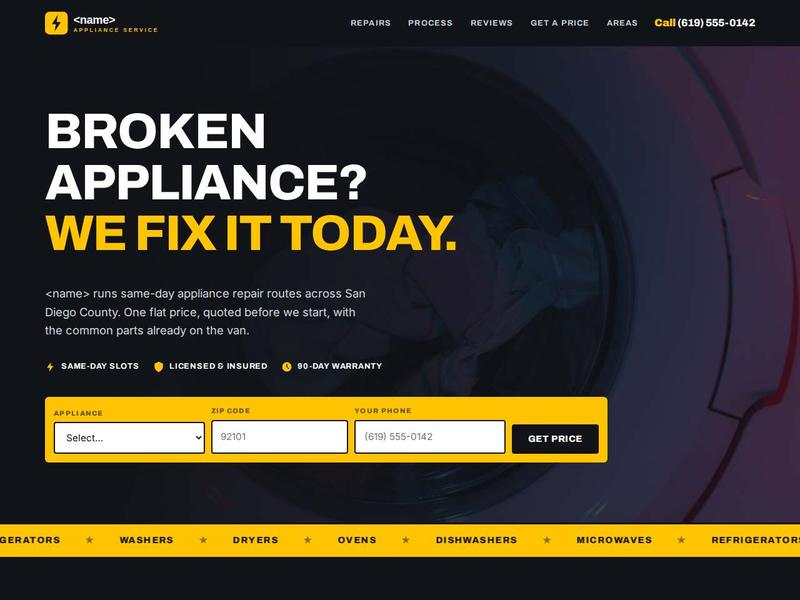
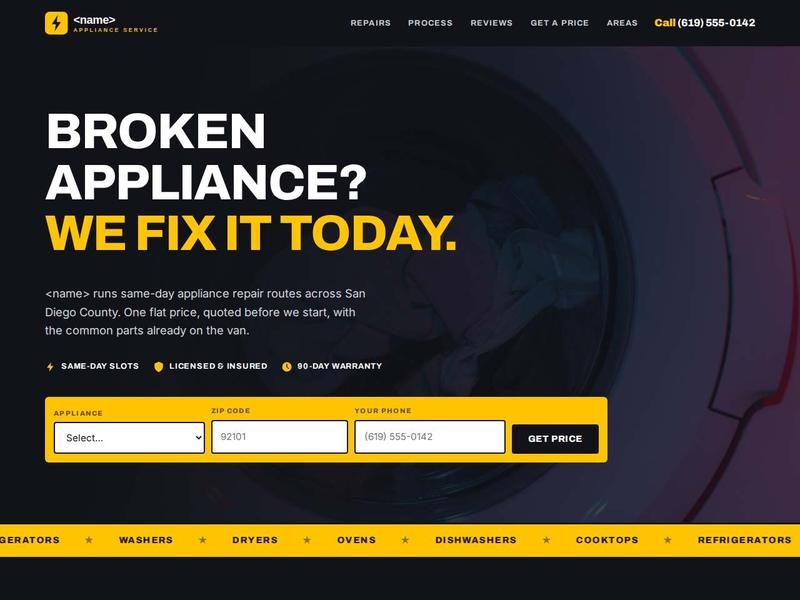
Remove microwave and garbage disposal from the appliance sites
Drops both from the advertised services everywhere they appeared:

  bluecrest   removed the "Microwave" and "Garbage disposal & more" service
              cards and the Microwave option in the quote form
  boltyellow  removed Microwaves from the ticker (replaced with Cooktops, a
              service the site already lists), the microwave/disposal clause
              in the dishwasher tile, and the Microwave form option
  hearth      dropped microwaves from the kitchen service list

Bluecrest is down to four service cards, so its grid moves from three columns
to a 2x2; the icon-card CSS it no longer uses is deleted.

Three bluecrest photographs had a microwave as their subject, which advertised
the service as plainly as the text did, so they are replaced: the hero and the
oven card now show microwave-free kitchens, and the dishwasher card shows an
actual dishwasher rather than a kitchen wide shot. Image credits updated.

Claude-Session: https://claude.ai/code/session_01JC18axCyewa22Ah88sQUmd

diff --git a/sites/appliance-01-bluecrest/index.html b/sites/appliance-01-bluecrest/index.html
@@ -74,7 +74,7 @@
         <a class="btn btn-ghost" href="#services">See what we repair</a>
       </div>
       <figure class="hero-photo">
-        <img src="assets/img/hero.jpg" width="1200" height="900" alt="Modern kitchen with a stainless steel refrigerator, range and microwave">
+        <img src="assets/img/hero.jpg" width="1200" height="900" alt="Bright white kitchen with a gas cooktop and cookware">
       </figure>
     </div>
 
@@ -107,7 +107,6 @@
                 <option>Dryer</option>
                 <option>Oven / range / cooktop</option>
                 <option>Dishwasher</option>
-                <option>Microwave</option>
                 <option>Other appliance</option>
               </select>
               <span class="error-msg">Please choose an appliance</span>
@@ -190,7 +189,7 @@
         </div>
       </article>
       <article class="svc">
-        <img src="assets/img/svc-oven.jpg" width="800" height="600" alt="Stainless steel range and over-range microwave in a white kitchen" loading="lazy">
+        <img src="assets/img/svc-oven.jpg" width="800" height="600" alt="Professional stainless steel range with cast-iron cookware" loading="lazy">
         <div class="svc-body">
           <h3>Oven, range &amp; cooktop</h3>
           <p>Uneven baking, burners out, error codes on the display.</p>
@@ -198,27 +197,11 @@
         </div>
       </article>
       <article class="svc">
-        <img src="assets/img/svc-dishwasher.jpg" width="800" height="600" alt="Kitchen with built-in dishwasher next to cabinetry" loading="lazy">
+        <img src="assets/img/svc-dishwasher.jpg" width="800" height="600" alt="Open built-in dishwasher beneath a kitchen counter" loading="lazy">
         <div class="svc-body">
           <h3>Dishwasher</h3>
           <p>Standing water, dishes coming out dirty, or a leak under the door.</p>
           <ul><li>Drain pumps and filters</li><li>Spray arms and wash motors</li><li>Door seals and latches</li></ul>
-        </div>
-      </article>
-      <article class="svc">
-        <div class="svc-body">
-          <div class="svc-icon"><svg width="24" height="24" viewBox="0 0 24 24" fill="currentColor"><path d="M4 4h16v11H4Zm2 13h12v3H6Zm2-9h8v2H8Z"/></svg></div>
-          <h3>Microwave</h3>
-          <p>No heat, sparking, spinning tray stuck or a dead keypad — over-range and built-in units included.</p>
-          <ul><li>Magnetrons and diodes</li><li>Door switches and fuses</li><li>Vent fans and filters</li></ul>
-        </div>
-      </article>
-      <article class="svc">
-        <div class="svc-body">
-          <div class="svc-icon"><svg width="24" height="24" viewBox="0 0 24 24" fill="currentColor"><path d="M12 2a5 5 0 0 1 5 5v3h1a2 2 0 0 1 2 2v8a2 2 0 0 1-2 2H6a2 2 0 0 1-2-2v-8a2 2 0 0 1 2-2h1V7a5 5 0 0 1 5-5Zm3 8V7a3 3 0 1 0-6 0v3Z"/></svg></div>
-          <h3>Garbage disposal &amp; more</h3>
-          <p>Wine coolers, trash compactors, vent hoods and small built-ins — if it's plugged into your kitchen, ask us.</p>
-          <ul><li>Jammed or humming disposals</li><li>Wine and beverage coolers</li><li>Hood fans and lighting</li></ul>
         </div>
       </article>
     </div>

diff --git a/sites/appliance-02-boltyellow/index.html b/sites/appliance-02-boltyellow/index.html
@@ -83,8 +83,8 @@
 
 <div class="strip" aria-hidden="true">
   <div class="strip-inner">
-    <span>Refrigerators</span><span>Washers</span><span>Dryers</span><span>Ovens</span><span>Dishwashers</span><span>Microwaves</span>
-    <span>Refrigerators</span><span>Washers</span><span>Dryers</span><span>Ovens</span><span>Dishwashers</span><span>Microwaves</span>
+    <span>Refrigerators</span><span>Washers</span><span>Dryers</span><span>Ovens</span><span>Dishwashers</span><span>Cooktops</span>
+    <span>Refrigerators</span><span>Washers</span><span>Dryers</span><span>Ovens</span><span>Dishwashers</span><span>Cooktops</span>
   </div>
 </div>
 
@@ -132,7 +132,7 @@
         <span class="tile-tag">Built-ins</span>
         <div class="tile-body">
           <h3>Dishwashers &amp; more</h3>
-          <p>Standing water, dirty dishes, leaking doors — plus microwaves, disposals, wine coolers and vent hoods.</p>
+          <p>Standing water, dirty dishes, leaking doors — plus wine coolers, vent hoods and other kitchen built-ins.</p>
         </div>
       </article>
     </div>
@@ -234,7 +234,7 @@
             <select id="f-appliance" name="appliance" data-required>
               <option value="">Select…</option>
               <option>Refrigerator</option><option>Washer</option><option>Dryer</option>
-              <option>Oven / range</option><option>Dishwasher</option><option>Microwave</option><option>Other</option>
+              <option>Oven / range</option><option>Dishwasher</option><option>Other</option>
             </select>
             <span class="err">Required</span>
           </div>

diff --git a/sites/appliance-01-bluecrest/assets/css/style.css b/sites/appliance-01-bluecrest/assets/css/style.css
@@ -103,7 +103,7 @@ section{padding:76px 0}
 .section-head p{margin:0}
 
 /* services */
-.services-grid{display:grid;grid-template-columns:repeat(3,1fr);gap:22px}
+.services-grid{display:grid;grid-template-columns:repeat(2,1fr);gap:22px}
 .svc{border:1px solid var(--line);border-radius:var(--radius);overflow:hidden;background:#fff;transition:.2s}
 .svc:hover{transform:translateY(-4px);box-shadow:var(--shadow);border-color:#CBDCF8}
 .svc img{aspect-ratio:4/3;object-fit:cover;width:100%}
@@ -112,9 +112,6 @@ section{padding:76px 0}
 .svc-body p{font-size:.92rem;margin:0 0 .8rem}
 .svc-body ul{margin:0;padding-left:1.1rem;font-size:.88rem}
 .svc-body li{margin-bottom:.2rem}
-.svc:not(:has(img)){background:linear-gradient(180deg,#F5F8FE,#fff)}
-.svc-icon{width:48px;height:48px;border-radius:12px;background:#EAF1FF;color:var(--blue);
-  display:grid;place-items:center;margin-bottom:.9rem}
 
 /* steps */
 .steps{background:var(--bg-soft)}

diff --git a/sites/appliance-03-hearth/index.html b/sites/appliance-03-hearth/index.html
@@ -105,7 +105,7 @@
       <article class="round">
         <img src="assets/img/p-magnets.jpg" width="800" height="800" alt="Family refrigerator door covered in photos and magnets" loading="lazy">
         <h3>Kitchen &amp; built-ins</h3>
-        <p>Ovens, ranges, cooktops, dishwashers, microwaves.</p>
+        <p>Ovens, ranges, cooktops and dishwashers.</p>
         <ul>
           <li>Ovens off-temperature or dead</li>
           <li>Burners and igniters not lighting</li>

diff --git a/CREDITS.md b/CREDITS.md
@@ -24,11 +24,11 @@ not caption them in a way that implies otherwise.
 
 | File | Source image |
 |---|---|
-| `assets/img/hero.jpg` | `https://images.unsplash.com/photo-1484154218962-a197022b5858` |
+| `assets/img/hero.jpg` | `https://images.unsplash.com/photo-1556909212-d5b604d0c90d` |
 | `assets/img/svc-fridge.jpg` | `https://images.unsplash.com/photo-1721613877687-c9099b698faa` |
 | `assets/img/svc-laundry.jpg` | `https://images.unsplash.com/photo-1632923565835-6582b54f2105` |
-| `assets/img/svc-oven.jpg` | `https://images.unsplash.com/photo-1596552183299-000ef779e88d` |
-| `assets/img/svc-dishwasher.jpg` | `https://images.unsplash.com/photo-1588854337115-1c67d9247e4d` |
+| `assets/img/svc-oven.jpg` | `https://images.unsplash.com/photo-1556910633-5099dc3971e8` |
+| `assets/img/svc-dishwasher.jpg` | `https://images.unsplash.com/photo-1608193851971-96c2a1f2896c` |
 | `assets/img/tech.jpg` | `https://images.unsplash.com/photo-1618090584176-7132b9911657` |
 | `assets/img/area.jpg` | `https://images.unsplash.com/photo-1754325899655-5e9b7bf05cdc` |
 
